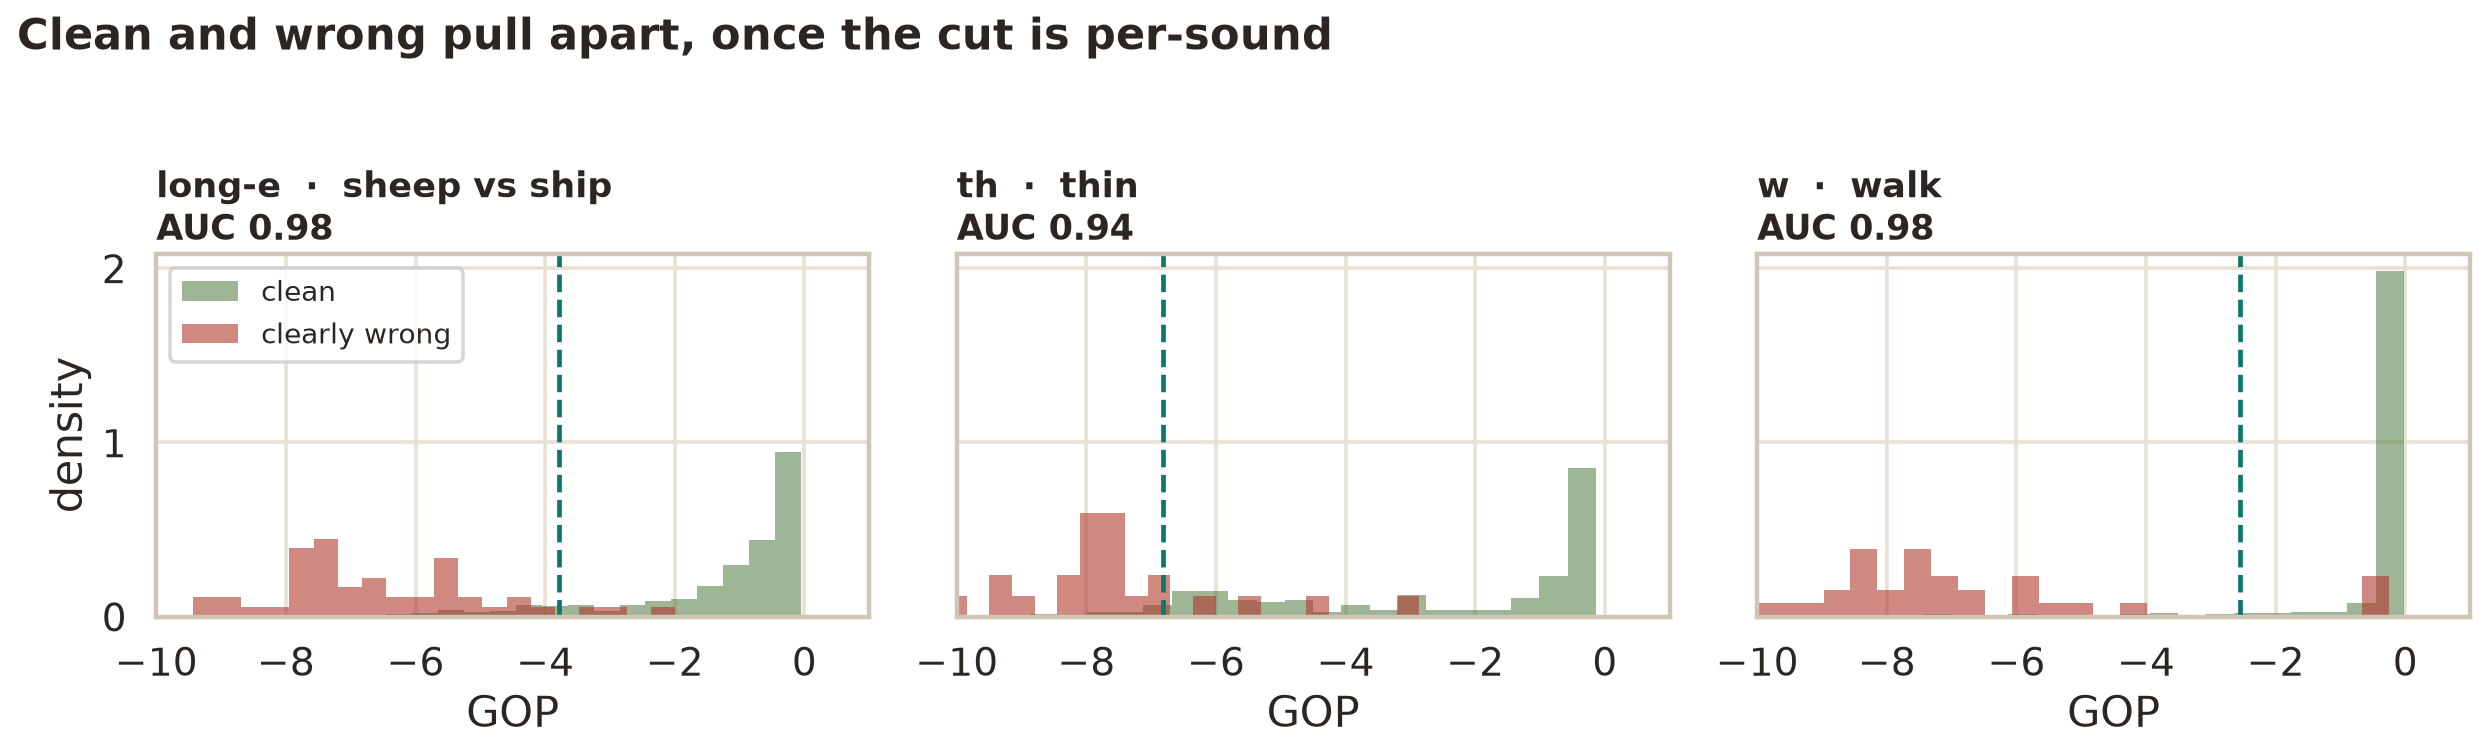
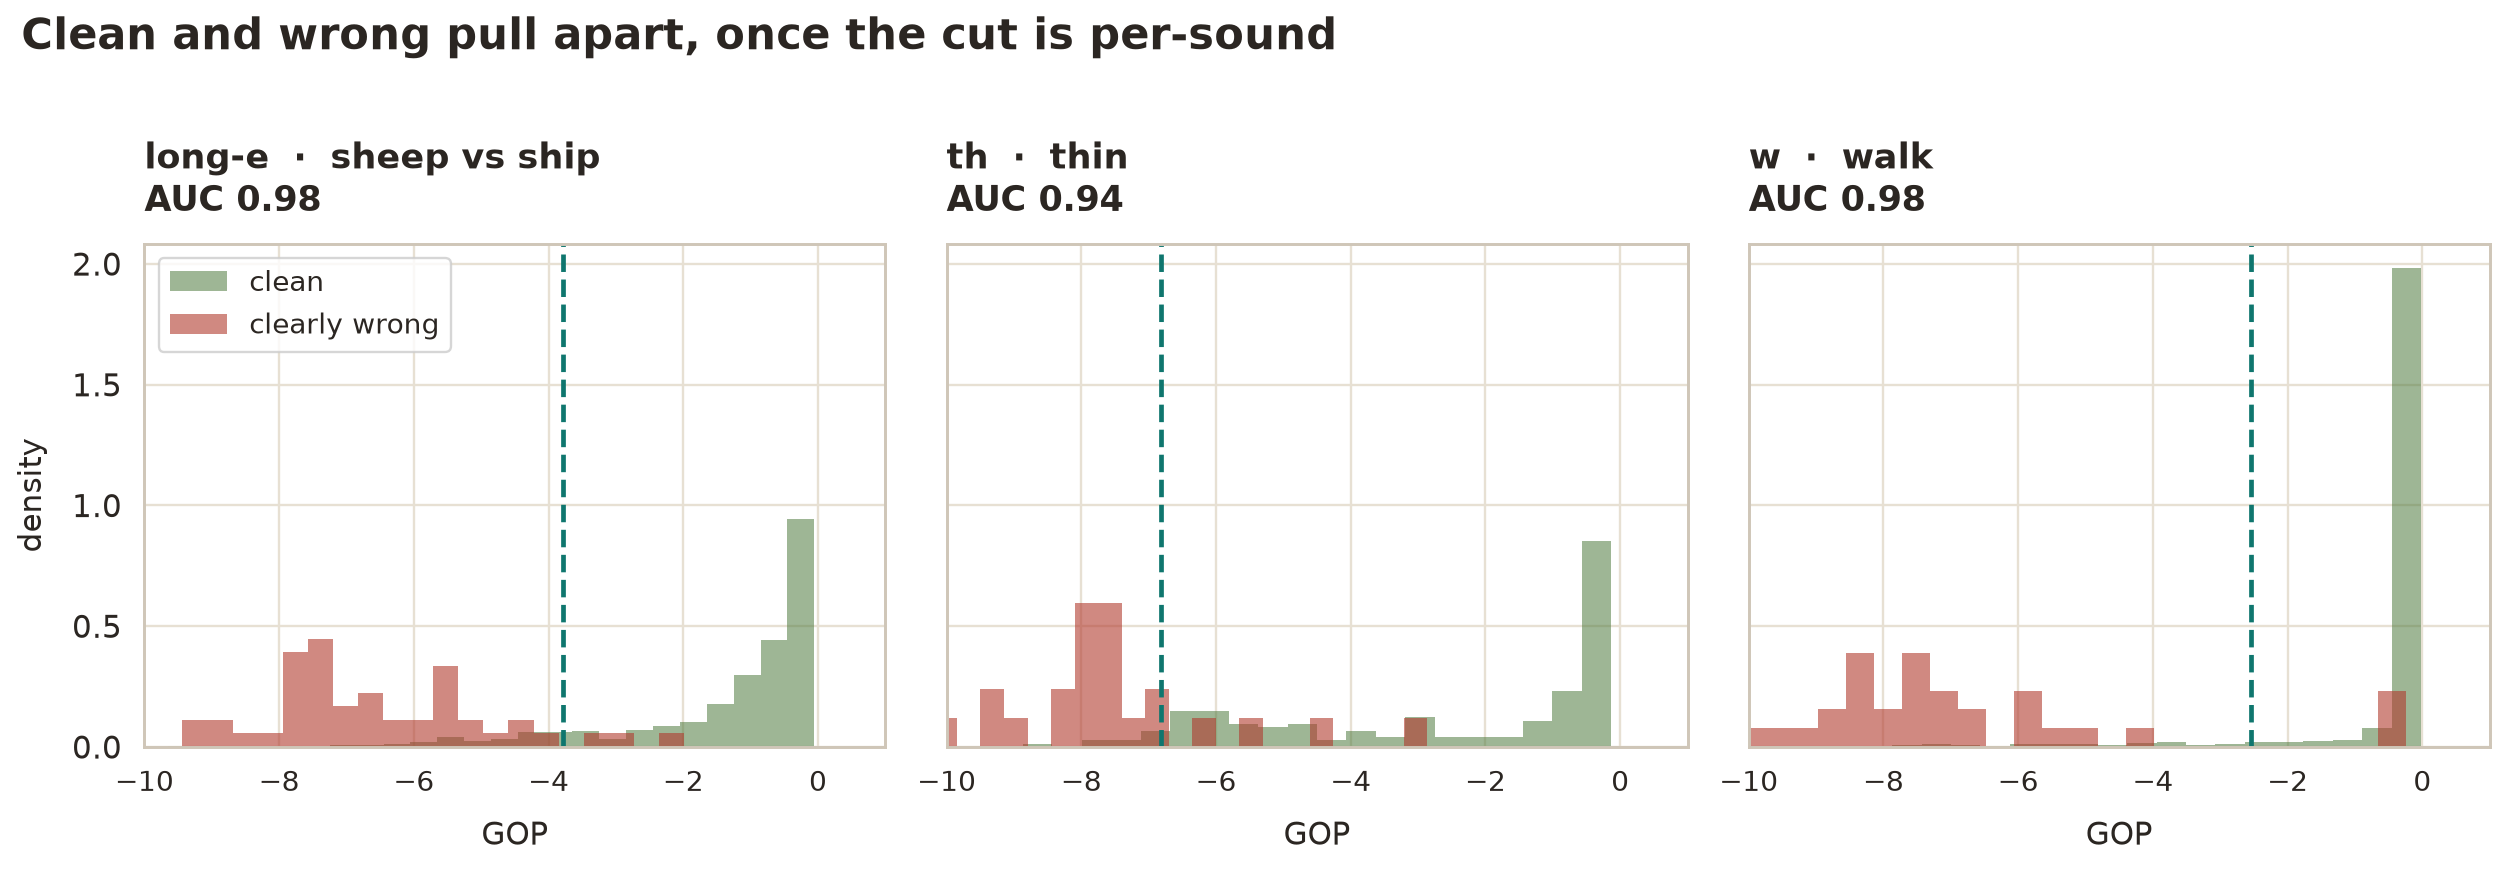
fix(calibration): give the figures room to breathe
Switch the plot context from talk to notebook, taller figures, thinner
bars with visible gaps, and explicit label sizes. The 27-row baselines
and separation charts were cramped edge to edge.

diff --git a/backend/calibration/plots.py b/backend/calibration/plots.py
@@ -29,7 +29,7 @@ CONTRAST = {'θ', 'ð', 'ɹ', 'ɪ', 'iː', 'æ', 'ɛ', 'v', 'w', 's', 'ʃ', 'f'}
 
 
 def style() -> None:
-    sns.set_theme(style='whitegrid', context='talk')
+    sns.set_theme(style='whitegrid', context='notebook')
     plt.rcParams.update(
         {
             'font.family': 'DejaVu Sans',
@@ -42,6 +42,12 @@ def style() -> None:
             'figure.facecolor': 'white',
             'savefig.facecolor': 'white',
             'grid.color': '#e7e0d3',
+            'axes.titlesize': 17,
+            'axes.titlepad': 14,
+            'axes.labelsize': 13,
+            'axes.labelpad': 10,
+            'xtick.labelsize': 12,
+            'ytick.labelsize': 13,
         }
     )
 
@@ -81,7 +87,8 @@ def load_pairs() -> tuple[dict[str, list[float]], dict[str, list[float]]]:
 def fig_baselines(rows: list[dict[str, object]]) -> None:
     rows = sorted(rows, key=lambda r: r['good_mean'])
     ys = range(len(rows))
-    fig, ax = plt.subplots(figsize=(9, 10))
+    fig, ax = plt.subplots(figsize=(9.5, 13))
+    ax.margins(y=0.015)
     ax.axvline(-5.0, color=NEUTRAL, linestyle='--', linewidth=2, zorder=1)
     ax.text(
         -5.0,
@@ -168,7 +175,7 @@ def fig_distributions(
         ('w', 'w  ·  walk'),
     ]
     by_ipa = {r['ipa']: r for r in rows}
-    fig, axes = plt.subplots(1, 3, figsize=(15, 4.6), sharey=True)
+    fig, axes = plt.subplots(1, 3, figsize=(15, 5.2), sharey=True)
     for ax, (ipa, label) in zip(axes, picks, strict=True):
         r = by_ipa[ipa]
         sns.histplot(
@@ -214,9 +221,9 @@ def fig_distributions(
 def fig_separation(rows: list[dict[str, object]]) -> None:
     rows = sorted(rows, key=lambda r: r['auc'])
     ys = range(len(rows))
-    fig, ax = plt.subplots(figsize=(8.5, 9.5))
+    fig, ax = plt.subplots(figsize=(9.5, 13))
     colors = [ACCENT if r['contrast'] else '#cdbfa8' for r in rows]
-    ax.barh(list(ys), [r['auc'] for r in rows], color=colors, height=0.72)
+    ax.barh(list(ys), [r['auc'] for r in rows], color=colors, height=0.6)
     ax.axvline(0.75, color=BAD, linestyle='--', linewidth=2)
     ax.text(
         0.75,